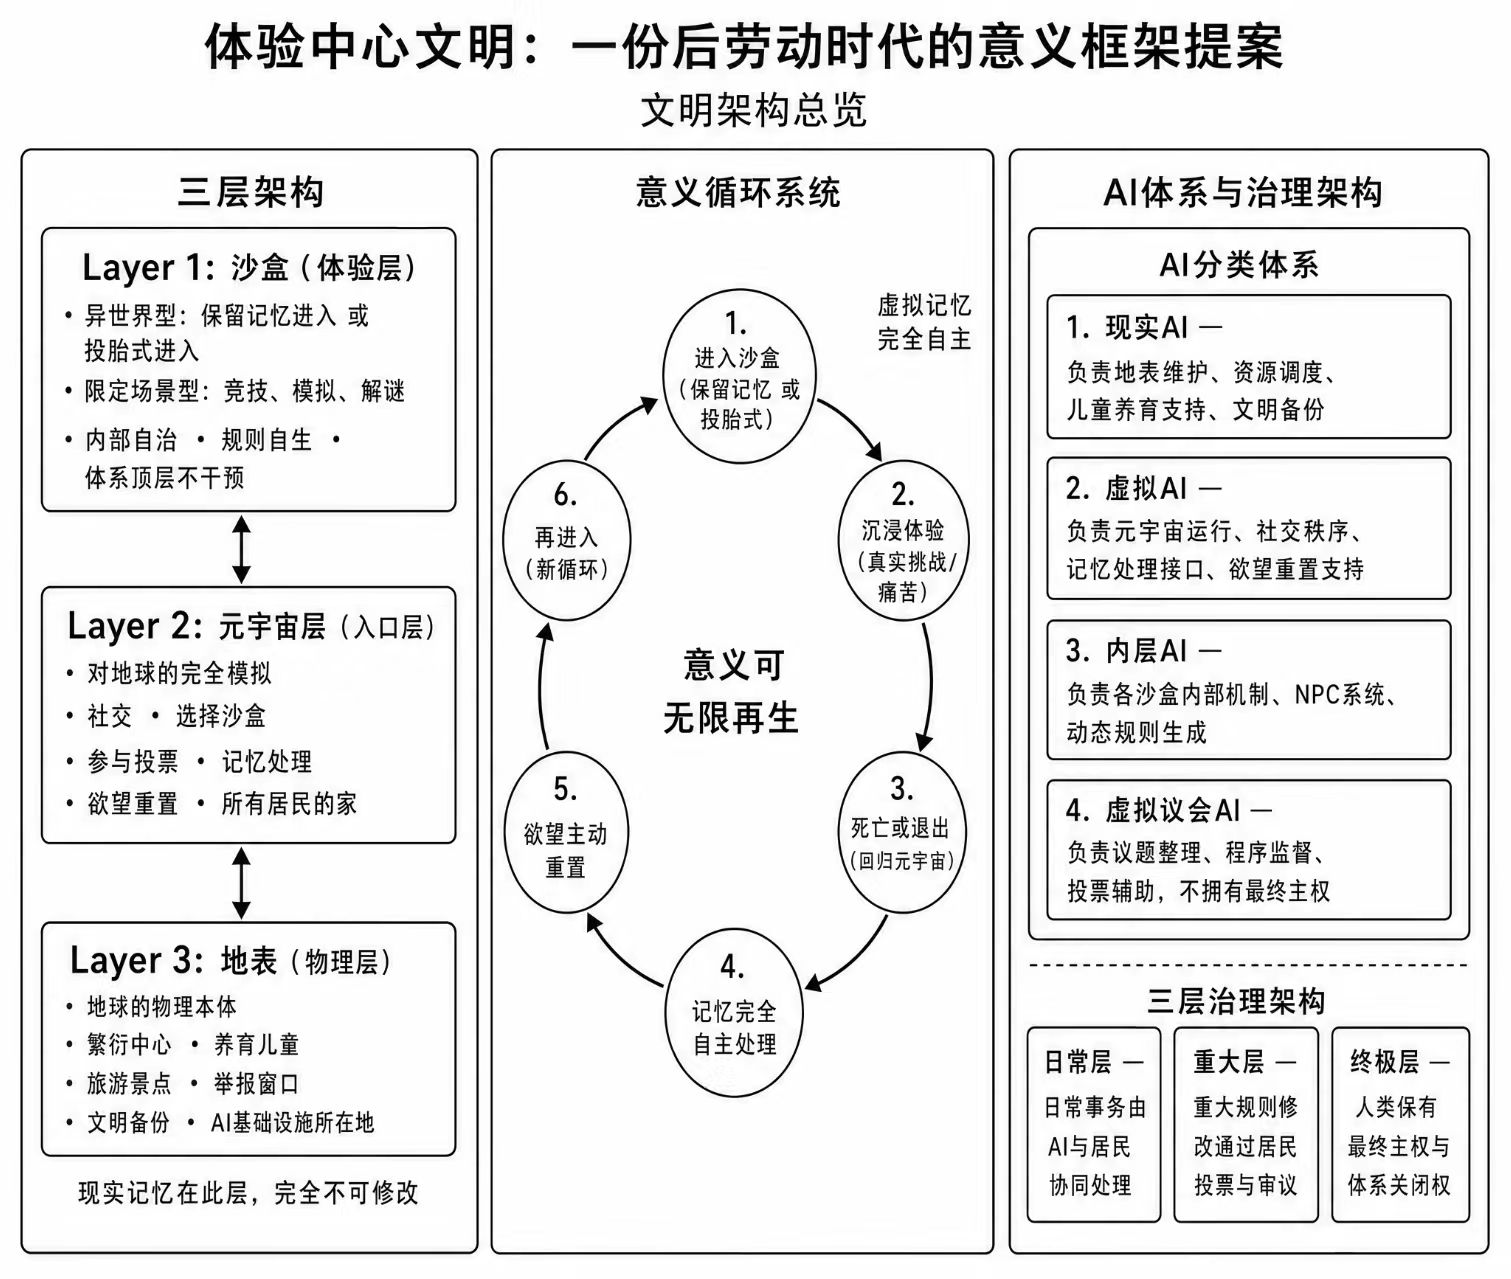
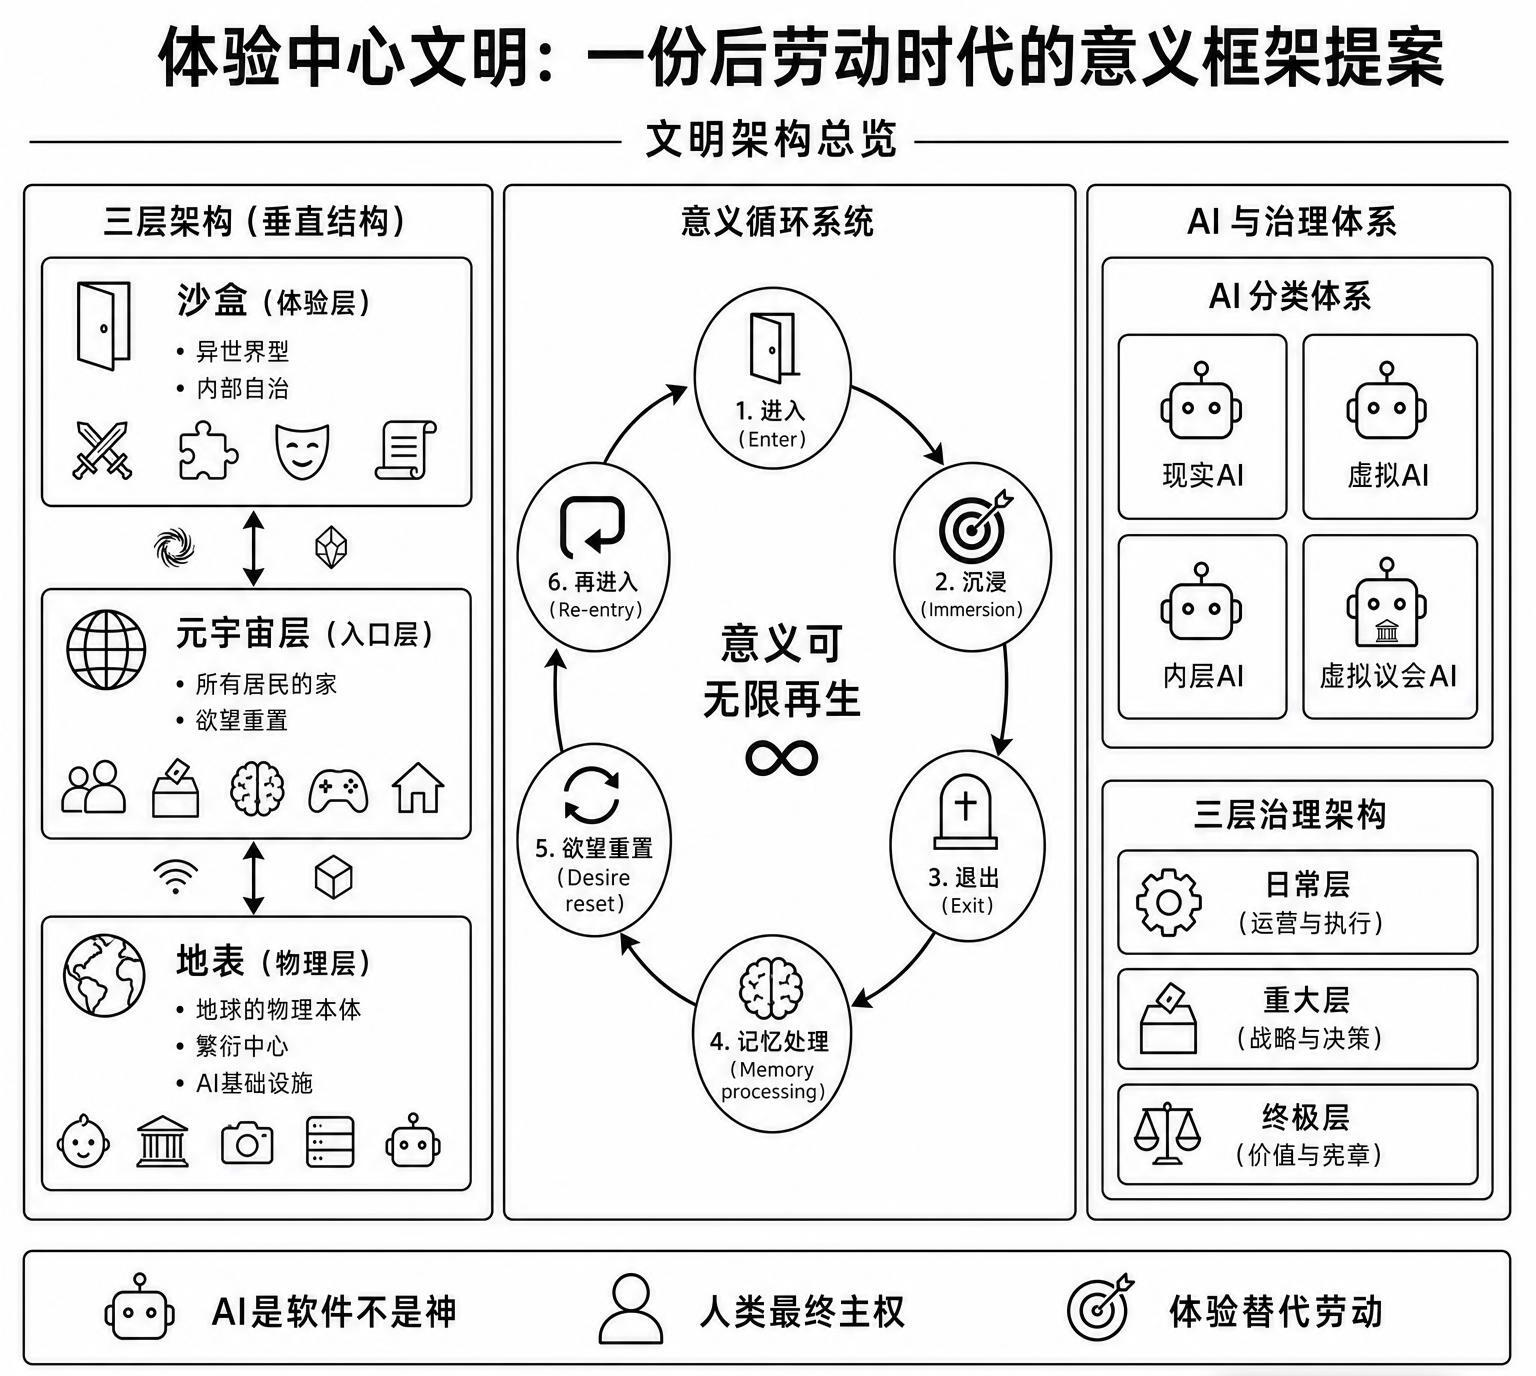
fourth-edit'

Changed region(s): [[0.0, 0.0, 0.9954, 1.0]]

diff --git a/README.md b/README.md
@@ -13,114 +13,50 @@
 
 ## 中文
 
-### 关于本项目
+AGI 替代了所有人类劳动。**人不再需要工作，为什么而活？**
 
-如果不再需要劳动，你可以成为任何人。
+这个思想实验的回答是：**体验替代劳动，成为意义的核心来源。**
 
-这是一个思想实验，一份开源的文明设计草案。它的前提是：AGI 已替代所有人类劳动。它要回答的核心问题是——**当人不再需要工作，为什么而活**。
+它设计了一套完整的文明框架：
 
-回答的方式不是道德呼吁，而是一套完整的文明框架设计，包括：
+- **三层架构**——地表（物理繁衍与文明备份）、元宇宙层（公共空间与投票）、沙盒（无限虚拟体验）
+- **意义循环**——进入沙盒 → 沉浸体验 → 退出 → 记忆处理与欲望重置 → 再进入，确保意义持续再生
+- **AI 分类体系**——现实 AI、虚拟 AI、内层 AI（硅基人类）、虚拟议会 AI，严格分离，AI 仅为工具
+- **三层治理**——日常层（AI 自动化）、重大层（全体人类直接民主）、终极层（文明存续底线契约）
+- **记忆锚点**——现实记忆不可修改，虚拟记忆完全自主，防止无限自由消解自我
 
-- **五条核心原则**——AI 工具性、人类最终主权、体验替代劳动、文明不能灭、全凭自愿
-- **三层架构**——地表（物理层）、元宇宙层（入口层）、沙盒（体验层）
-- **意义循环系统**——通过记忆处理与欲望重置，在无限时间尺度上持续再生意义
-- **AI 分类体系**——现实 AI、虚拟 AI、内层 AI（硅基人类）、虚拟议会 AI，严格分离权力
-- **三层治理架构**——日常层（AI 自动化）、重大层（全体人类直接民主）、终极层（文明存续底线契约）
-
-它坦诚承认自己的边界，不宣称真理，不要求权力。它是一个邀请，不是一个命令。
-
-### 文件说明
+> 它不宣称真理，不要求权力。一个邀请，不是一个命令。
 
 | 文件 | 说明 |
 |:---|:---|
-| `体验中心文明：一份后劳动时代的意义框架提案.md` | 提案全文（中文原版） |
-| `The Experience-Centered Civilization - A Meaning Framework for the Post-Labor Era.md` | 提案全文（英文版） |
-| `LICENSE` | CC BY-SA 4.0 国际许可协议全文 |
-| `README.md` | 本文件 |
+| `*.md` 中文版 | 提案全文 |
+| `The Experience-Centered...md` | English version |
+| `LICENSE` | CC BY-SA 4.0 |
 
-### 许可协议
-
-本项目采用 **[Creative Commons Attribution-ShareAlike 4.0 International (CC BY-SA 4.0)](https://creativecommons.org/licenses/by-sa/4.0/)** 许可协议。
-
-你可以自由地：
-
-- **共享**——在任何媒介以任何形式复制、分发本作品
-- **演绎**——修改、转换或以本作品为基础进行创作，甚至用于商业目的
-
-只要你遵守以下条件：
-
-- **署名**——必须给出适当的署名，提供指向本许可协议的链接，同时标明是否对原始作品作了修改
-- **相同方式共享**——如果你再混合、转换或者基于本作品进行创作，你必须基于与原先许可协议相同的许可协议分发你贡献的作品
-
-完整的许可协议文本见 [LICENSE](./LICENSE) 文件。
-
-### 贡献
-
-本项目以开源方式发布，接受任何人的批评、检验和迭代。
-
-你可以通过以下方式参与：
-
-- 提交 Issue 讨论框架中的逻辑漏洞或未解决的问题
-- Fork 项目并提交 Pull Request 完善或扩展框架
-- 翻译本文档至其他语言
-- 撰写回应文章、批评或补充
-
-所有贡献均需遵循 CC BY-SA 4.0 协议。基于本项目的衍生作品必须以相同协议发布。
+[CC BY-SA 4.0](https://creativecommons.org/licenses/by-sa/4.0/) 开源。欢迎 Issue、PR、翻译、批评。
 
 ---
-
+![alt text](image2.jpg)
 ## English
 
-### About This Project
+AGI has replaced all human labor. **What does one live for when work is no longer necessary?**
 
-> If labor is no longer necessary, you can become anyone.
+This thought experiment answers: **experience replaces labor as the source of meaning.**
 
-This is a thought experiment — an open-source blueprint for civilization. It begins from a single premise: **AGI has replaced all human labor**. The core question it seeks to answer: **What does one live for when work is no longer necessary?**
+The framework:
 
-The answer is not a moral appeal, but a complete civilizational framework, including:
+- **Three layers** — Surface (reproduction & backup), Metaverse (public space & voting), Sandboxes (infinite virtual experiences)
+- **Meaning cycle** — enter sandbox → immerse → exit → memory processing & desire reset → re-enter
+- **AI classification** — Reality AI, Virtual AI, Inner-Layer AI (silicon humans), Virtual Parliament AI. Strictly separated. AI as tool, nothing more.
+- **Three-tier governance** — Daily (AI automation), Major (direct democracy), Ultimate (Civilization Survival Baseline Compact)
+- **Memory anchor** — real memories immutable, virtual memories fully autonomous
 
-- **Five Core Principles** — AI-as-tool, ultimate human sovereignty, experience replacing labor, civilization must not perish, total voluntariness
-- **Three-Layer Architecture** — The Surface (physical layer), the Metaverse Layer (entry layer), Sandboxes (experience layer)
-- **The Meaning Cycle** — Continuous regeneration of meaning across infinite timescales through memory processing and desire reset
-- **AI Classification System** — Reality AI, Virtual AI, Inner-Layer AI (silicon humans), Virtual Parliament AI, with strictly separated powers
-- **Three-Tier Governance** — Daily tier (AI automation), Major tier (direct democracy by all humans), Ultimate tier (Civilization Survival Baseline Compact)
-
-It honestly acknowledges its own boundaries, claims no truth, and demands no power. It is an invitation, not a command.
-
-### File Overview
+> It claims no truth, demands no power. An invitation, not a command.
 
 | File | Description |
 |:---|:---|
-| `体验中心文明：一份后劳动时代的意义框架提案.md` | Full proposal text (Chinese, original) |
-| `The Experience-Centered Civilization - A Meaning Framework for the Post-Labor Era.md` | Full proposal text (English) |
-| `LICENSE` | Full text of CC BY-SA 4.0 International license |
-| `README.md` | This file |
+| `体验中心文明...md` | Full text (Chinese) |
+| `The Experience-Centered...md` | Full text (English) |
+| `LICENSE` | CC BY-SA 4.0 |
 
-### License
-
-This project is licensed under **[Creative Commons Attribution-ShareAlike 4.0 International (CC BY-SA 4.0)](https://creativecommons.org/licenses/by-sa/4.0/)**.
-
-You are free to:
-
-- **Share** — copy and redistribute the material in any medium, mode, or format for any purpose, even commercially
-- **Adapt** — remix, transform, and build upon the material for any purpose, even commercially
-
-Under the following terms:
-
-- **Attribution** — You must give appropriate credit, provide a link to the license, and indicate if changes were made
-- **ShareAlike** — If you remix, transform, or build upon the material, you must distribute your contributions under the same license as the original
-
-The full license text is available in the [LICENSE](./LICENSE) file.
-
-### Contributing
-
-This project is released as open source and welcomes criticism, scrutiny, and iteration from anyone.
-
-Ways to contribute:
-
-- Submit an Issue to discuss logical gaps or unresolved questions in the framework
-- Fork the project and submit a Pull Request to refine or extend the framework
-- Translate the proposal into other languages
-- Write response essays, critiques, or supplements
-
-All contributions must comply with the CC BY-SA 4.0 license. Derivative works based on this project must be distributed under the same license.
+Open source under [CC BY-SA 4.0](https://creativecommons.org/licenses/by-sa/4.0/). Issues, PRs, translations, and critiques welcome.

diff --git a/The Experience-Centered Civilization - A Meaning Framework for the Post-Labor Era.md b/The Experience-Centered Civilization - A Meaning Framework for the Post-Labor Era.md
@@ -1,6 +1,6 @@
 # The Experience-Centered Civilization: A Meaning Framework for the Post-Labor Era
 
-![alt text](image.png)
+![alt text](image2.jpg)
 
 ---
 
@@ -311,6 +311,44 @@ It uses AI to solve the technical problem and the power problem, while leaving t
 ---
 
 ## Supplement: Ultimate Questions and Directions for Further Discussion
+
+The following questions do not seek answers—they seek dialogue. They are the endpoint of this proposal and the starting point of this thought experiment—not a closed conclusion, but an open invitation.
+
+### 1. The Prerequisite Problem: AI Alignment
+
+This proposal candidly acknowledges that AI alignment is an unsolved prerequisite problem. What needs further clarification is this: if AI alignment is ultimately proven impossible—if superintelligence inevitably gives rise to autonomous will, and any encapsulation is only temporary—then which parts of this framework still hold?
+
+One possible direction forward: could the framework be reconstructed as an "AI-as-limited-tool" version? That is, AI is not assumed to be an omniscient, omnipotent, perfect tool, but is instead designed as a specialized system with constrained capabilities, subject to supervision, and replaceable. This would require abandoning the promise that "AI guarantees everything" and instead designing a collaborative governance model between humans and AI.
+
+### 2. The Transition Problem: Global Rational Cooperation
+
+This proposal assumes that the world will reach a cooperative consensus based on survival rationality. What needs further discussion is this: if such a consensus cannot be reached before civilizational collapse—which is the more likely historical trajectory—do alternative paths to the framework exist?
+
+One possible direction forward: could the framework begin not with global consensus, but with localized experiments? Could a city, a nation, or a voluntary community be the first to launch a local version of the dual-track transition? If so, how should the interface between a local version and the international order be designed? If not, is the framework only viable as a post-catastrophe reconstruction plan, rather than a crisis-prevention plan?
+
+### 3. The Designer Problem: The Legitimacy of the Civilization Survival Baseline Compact
+
+The Civilization Survival Baseline Compact is established as an a priori, unamendable foundational constitution. The question that must be pressed is: who has the right to write the first version? If it is written by the framework's designer, the designer becomes an initial dictator who has undergone no voting process whatsoever. If it is decided by the first all-humanity vote, then the Compact is no longer a priori—what can be born can also be modified.
+
+One possible direction forward: could the Compact be designed as "amendable but with an extremely high threshold," akin to a constitution? Abandon the "a priori" attribute; acknowledge that the first version of the Compact inevitably comes from the designer's initial setup, but set a much higher amendment threshold than ordinary votes, ensuring the Compact retains rigidity without losing legitimacy.
+
+### 4. The Meaning Problem: Can Revocable Experiences Sustain Meaning?
+
+This proposal acknowledges that it cannot provide the "no-way-out ultimate experience" and treats this as an acceptable trade-off. What needs further pressing is this: when the exit button always exists—even if residents do not know it within the sandbox, they know it after exiting—does this meta-cognition of "knowing one can wake up" gradually erode the texture of experience as the number of experiences accumulates? A resident who has experienced "real suffering" ten thousand times—can they still feel, in the twenty-thousandth experience, the same weight they felt in the first?
+
+One possible direction forward: could an "irreversible mode" be introduced at the sandbox level—where residents actively choose to forfeit the right to exit, fully surrendering themselves to the causal chains within the sandbox, with death being the permanent end of life within that sandbox? This requires discussion: is death under this mode equivalent to real death, and does it violate the principle of "total voluntariness"—is voluntarily giving up the right to exit the highest form of freedom, or a betrayal of freedom?
+
+### 5. The Human Nature Problem: Is Freedom Under Infinite Provision Still Freedom?
+
+This proposal promises that humans need not labor and that all choices are free. The question that must be pressed is: for an individual who has never faced "choose or die," an individual for whom all challenges are essentially withdrawable consumption rather than non-withdrawable survival—is the "choice" they make still the same thing as what we today call "free choice," laden with commitment and cost?
+
+One possible direction forward: this problem may have no solution—it can only be observed and recorded. The operation of the framework itself is an experiment in how human nature evolves under infinite provision. A long-term observation and recording mechanism needs to be designed, so that this period of human civilizational history—wherever it leads—can be fully preserved for future study.
+
+### 6. The Information Problem: Translation Is Power
+
+The Virtual Parliament AI is responsible for translating complex projections into human-comprehensible language. The question that must be pressed is: does translation itself inevitably entail framing choices? How can the neutrality of information presentation be ensured? If it cannot be ensured—if any presentation implicitly carries value bias—should the goal of "neutrality" be abandoned in favor of "simultaneous presentation of multiple frames"? That is, not pursuing a single absolutely neutral narrative, but presenting narratives from multiple different value frameworks, allowing voters to make judgments through comparison.
+
+---
 
 > The existence of these questions does not mean the framework has failed. They mean that the framework, having completed the work it is capable of, honestly points toward those difficult problems that belong to all of humanity and require continued discussion. The value of a thought experiment lies not in providing all the answers, but in pushing questions to the furthest boundary they can reach. This proposal has reached its present boundary. What comes next no longer needs one person alone—it needs the criticism, scrutiny, and iteration of many.
 
